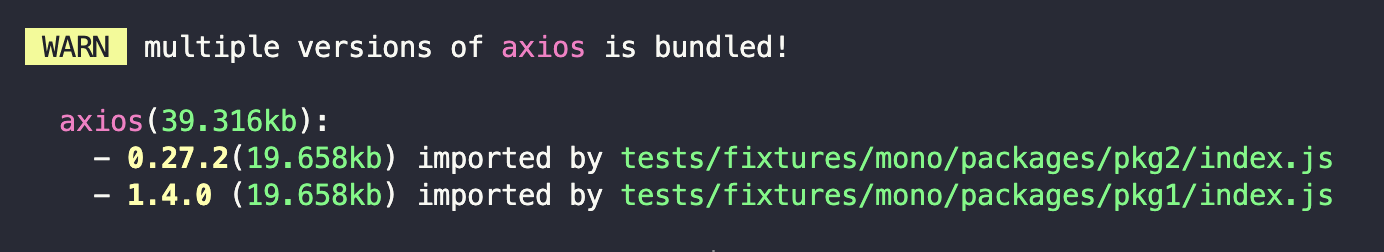
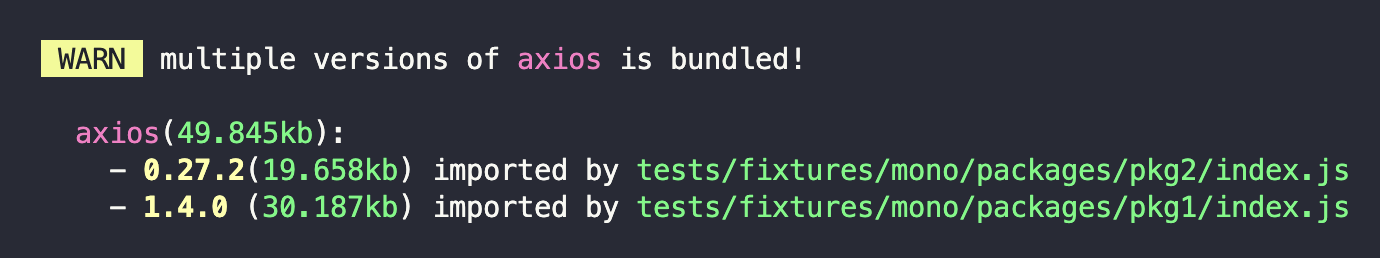
fix: different package output same pkg size

Changed region(s): [[0.0312, 0.4167, 0.9971, 0.8611], [0.0, 0.1111, 0.592, 0.3056]]

diff --git a/src/index.ts b/src/index.ts
@@ -11,9 +11,7 @@ import { workspaceRoot } from 'workspace-root';
 
 import { memoizeAsync, getPkgSize as _getPkgSize } from './utils';
 
-export interface Options {
-    fetchPkgInfoTimeout?: number;
-}
+export interface Options {}
 
 const getWorkspaceRootFolder = memoizeAsync(async () => {
     let workspaceRootFolder = await workspaceRoot();
@@ -60,7 +58,7 @@ const formatImporter = memoizeAsync(async (importer: string) => {
     return formattedImporter;
 });
 
-const getPkgSize = memoizeAsync(_getPkgSize);
+const getPkgSize = memoizeAsync(_getPkgSize, (name, version) => `${name}@${version}`);
 
 function colorizeSize(kb: number) {
     if (Number.isNaN(kb)) return '';
@@ -138,6 +136,7 @@ export default createUnplugin<Options | undefined>(() => {
         ];
 
         const promises = duplicatedPackages.map(async (duplicatedPackage) => {
+            const warningMessagesOfPackage: string[] = [];
             const sortedVersions = [...packageToVersionsMap.get(duplicatedPackage)!.keys()].sort(
                 (a, b) => (gt(a, b) ? 1 : -1),
             );
@@ -163,20 +162,17 @@ export default createUnplugin<Options | undefined>(() => {
                     .join(', ');
                 const pkgSize = await getPkgSize(duplicatedPackage, version);
                 totalSize += pkgSize;
-                warningMessages.push(
-                    // prettier-ignore
-                    `    - ${formattedVersion}${colorizeSize(pkgSize)} imported by ${formattedImporters}`,
-                );
+                return `    - ${formattedVersion}${colorizeSize(
+                    pkgSize,
+                )} imported by ${formattedImporters}`;
             });
-            await Promise.all(_promises);
-
-            warningMessages.splice(
-                warningMessages.length - sortedVersions.length,
-                0,
+            warningMessagesOfPackage.push(...(await Promise.all(_promises)));
+            warningMessagesOfPackage.unshift(
                 `\n  ${c.magenta(duplicatedPackage)}${colorizeSize(totalSize)}:`,
             );
+            return warningMessagesOfPackage;
         });
-        await Promise.all(promises);
+        warningMessages.push(...(await Promise.all(promises)).flat());
 
         // remove vite output dim colorize
         // eslint-disable-next-line unicorn/escape-case, unicorn/no-hex-escape

diff --git a/src/utils.ts b/src/utils.ts
@@ -1,8 +1,14 @@
 import type { AxiosResponse } from 'axios';
 import axios from 'axios';
 
-export function memoizeAsync<F extends (...params: any[]) => Promise<any>>(f: F) {
-    const cache = new Map<Parameters<F>[0], Promise<Awaited<ReturnType<F>>>>();
+export function memoizeAsync<F extends (...params: any[]) => Promise<any>>(
+    f: F,
+    getCacheKey?: (...args: Parameters<F>) => string,
+) {
+    const cache = new Map<
+        typeof getCacheKey extends undefined ? Parameters<F>[0] : string,
+        Promise<Awaited<ReturnType<F>>>
+    >();
     const memoizedFuncName = `memoized ${f.name}`;
 
     // use objet variable key to make meaningful function name
@@ -10,10 +16,11 @@ export function memoizeAsync<F extends (...params: any[]) => Promise<any>>(f: F)
         [memoizedFuncName](...params: Parameters<F>) {
             // return the cached promise when first param strict equal
             const firstParam = params[0];
-            if (!cache.has(firstParam)) {
-                cache.set(firstParam, f(...params));
+            const key = typeof getCacheKey === 'function' ? getCacheKey(...params) : firstParam;
+            if (!cache.has(key)) {
+                cache.set(key, f(...params));
             }
-            return cache.get(firstParam)!;
+            return cache.get(key)!;
         },
     };
 
